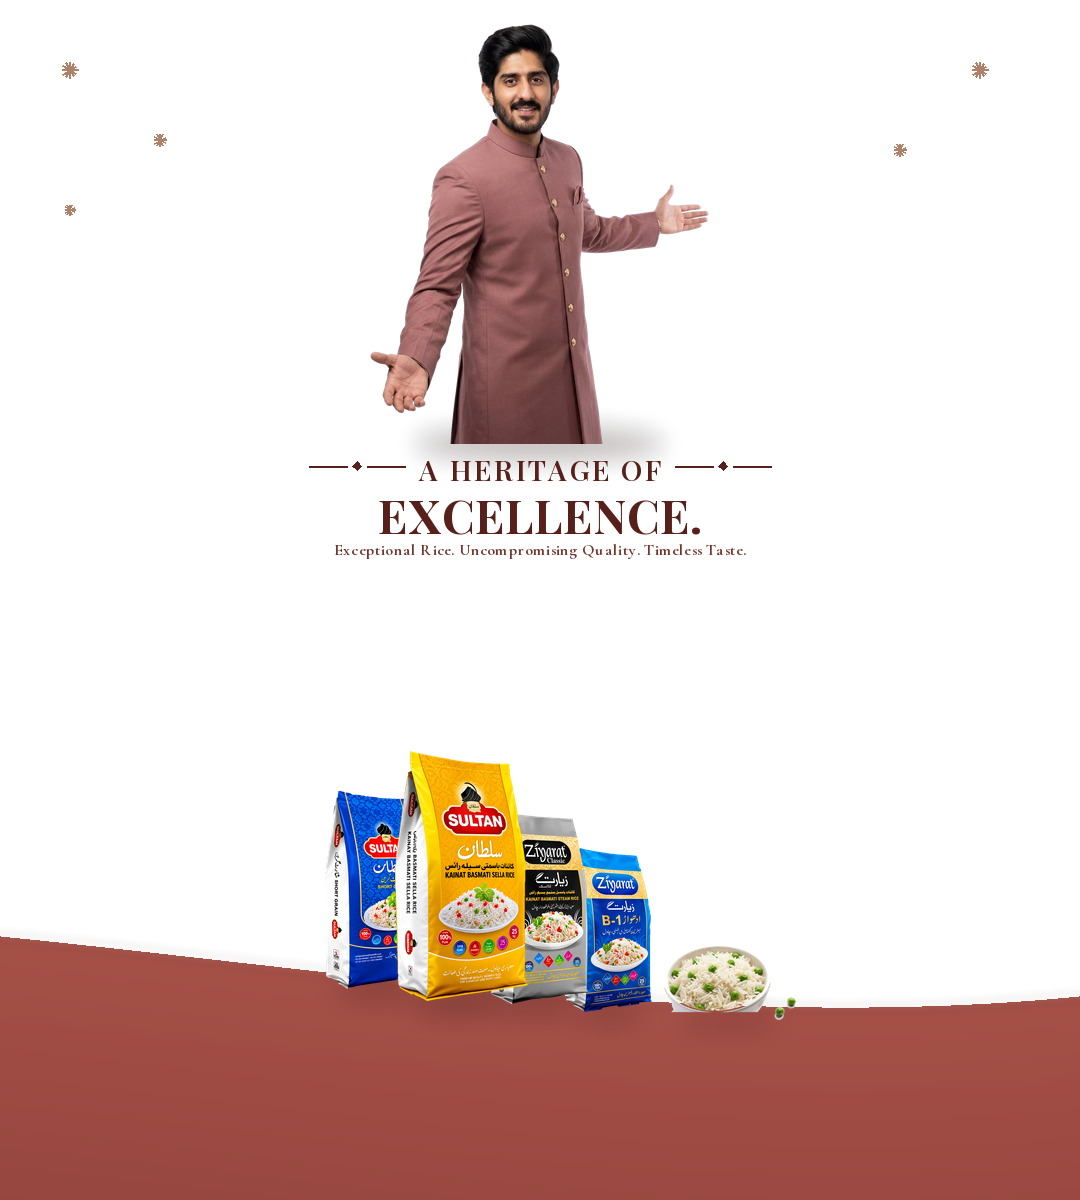
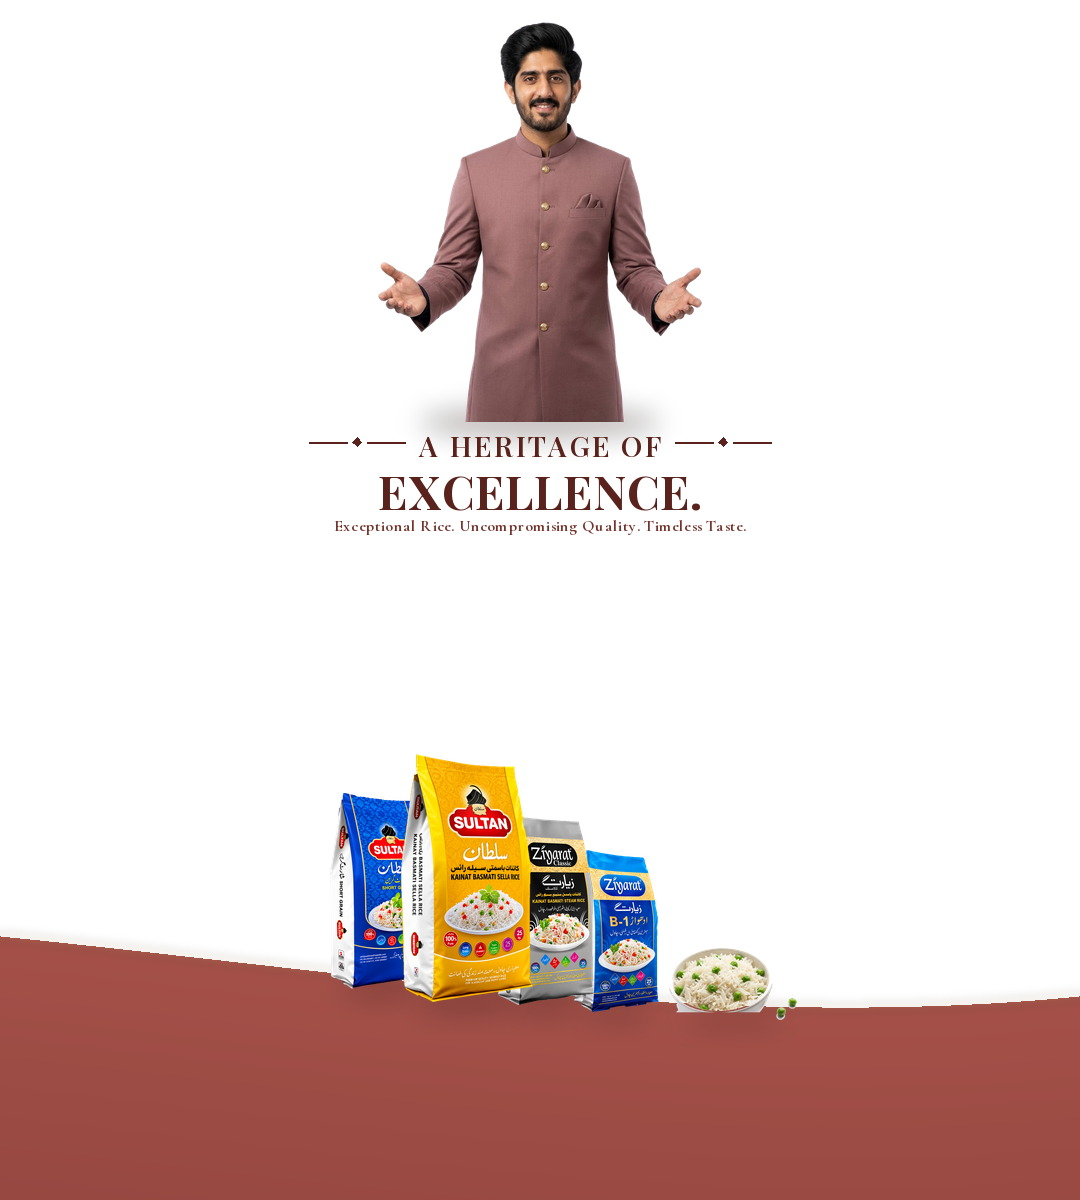
Homepage hero at KRBL 1802x864 finish, frontal presenting pose.

Changed region(s): [[0.3056, 0.0, 0.7028, 0.4625], [0.3056, 0.6167, 0.7333, 0.8633], [0.8861, 0.0308, 0.9167, 0.0617]]

diff --git a/index.html b/index.html
@@ -13,7 +13,7 @@
   <meta property="og:url" content="https://muhammadashir0.github.io/jhabran-rice-mill/">
   <meta property="og:image" content="https://muhammadashir0.github.io/jhabran-rice-mill/assets/images/hero-heritage.jpg">
   <meta name="theme-color" content="#0B241C">
-  <link rel="preload" as="image" href="assets/images/hero-heritage.jpg?v=41">
+  <link rel="preload" as="image" href="assets/images/hero-heritage.jpg?v=42">
   <link rel="icon" href="assets/icons/favicon-32.png?v=34" type="image/png" sizes="32x32">
   <link rel="icon" href="assets/icons/mark.png?v=34" type="image/png" sizes="192x192">
   <link rel="apple-touch-icon" href="assets/icons/apple-touch.png?v=34">
@@ -81,8 +81,8 @@
 
         <article class="slide is-on slide-campaign slide-heritage">
           <picture>
-            <source media="(max-width: 720px)" srcset="assets/images/hero-heritage-m.jpg?v=41">
-            <img src="assets/images/hero-heritage.jpg?v=41" alt="A heritage of excellence — Sultan and Ziyarat rice" width="1920" height="900" fetchpriority="high" decoding="async">
+            <source media="(max-width: 720px)" srcset="assets/images/hero-heritage-m.jpg?v=42">
+            <img src="assets/images/hero-heritage.jpg?v=42" alt="A heritage of excellence — Sultan and Ziyarat rice" width="1802" height="864" fetchpriority="high" decoding="async">
           </picture>
           <div class="hero-shade"></div>
           <div class="hero-content hero-center">
